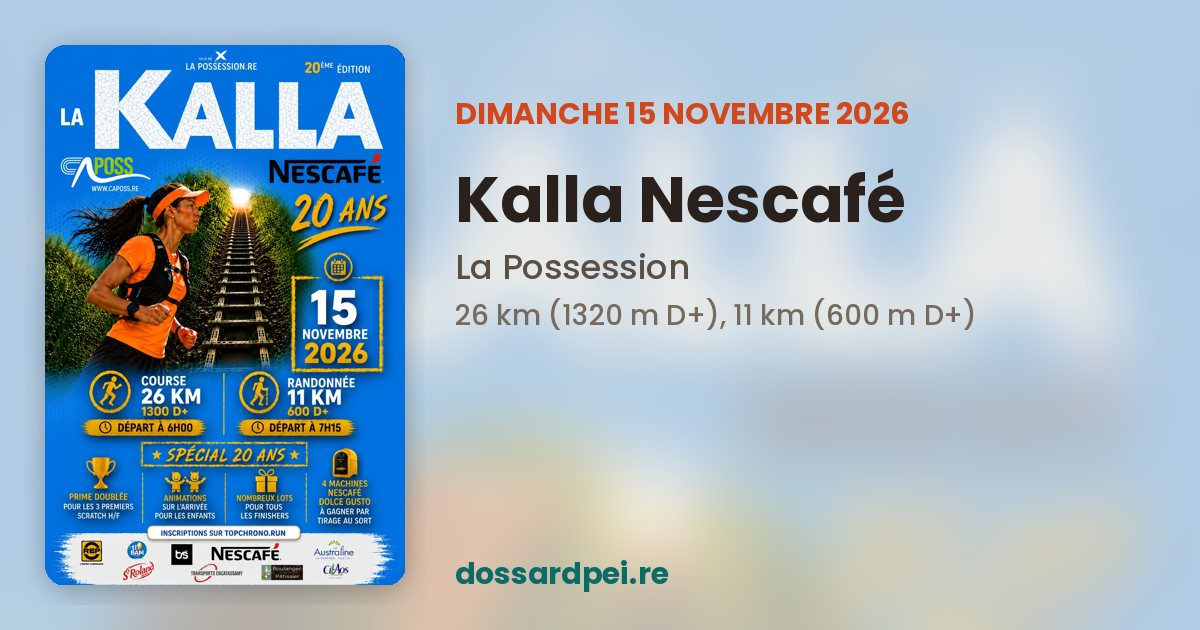
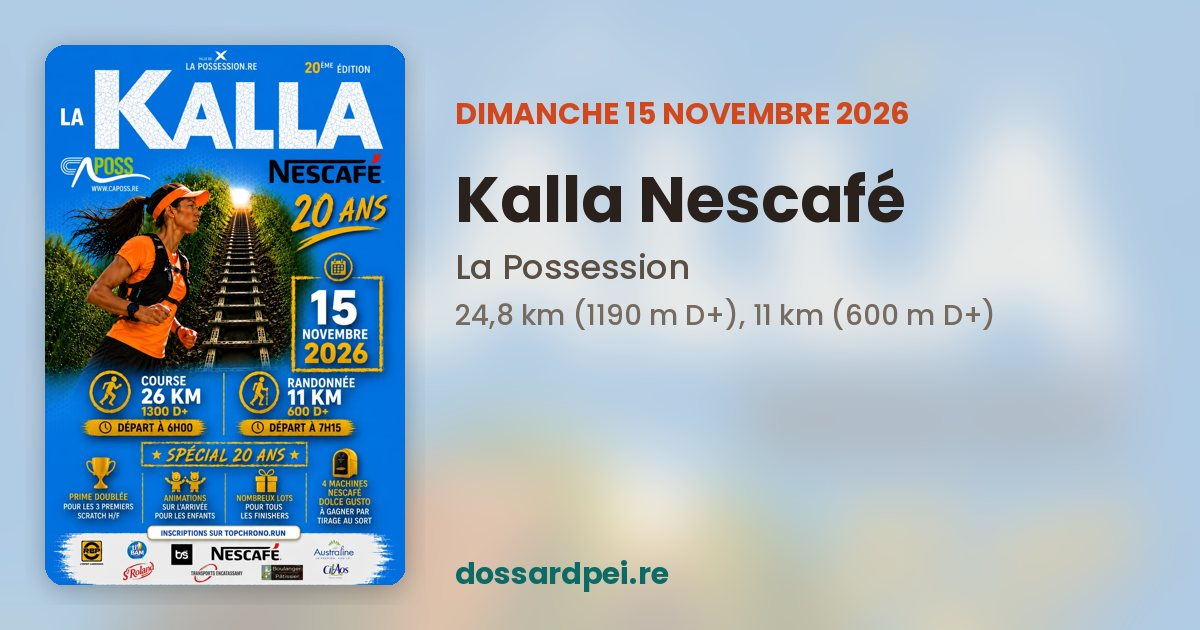
Synchro sources [pages]

Changed region(s): [[0.37, 0.4825, 0.8325, 0.5429]]

diff --git a/course/kalla-nescafe-2026-11/index.html b/course/kalla-nescafe-2026-11/index.html
@@ -2,15 +2,15 @@
 <html lang="fr"><head><meta charset="utf-8"><meta name="viewport" content="width=device-width,initial-scale=1,viewport-fit=cover">
 <link rel="icon" href="/favicon.ico" sizes="48x48"><link rel="icon" href="/favicon.svg" type="image/svg+xml"><link rel="apple-touch-icon" href="/apple-touch-icon.png">
 <title>Kalla Nescafé 2026 · 15 novembre · La Possession | Dossard Péi</title>
-<meta name="description" content="Kalla Nescafé : trail le dimanche 15 novembre 2026 à La Possession, La Réunion. 26 km (1320 m D+), 11 km (600 m D+). Horaires, tarifs, parcours et lien d&#x27;inscription.">
+<meta name="description" content="Kalla Nescafé : trail le dimanche 15 novembre 2026 à La Possession, La Réunion. 24,8 km (1190 m D+), 11 km (600 m D+). Horaires, tarifs, parcours et lien d&#x27;inscription.">
 <link rel="canonical" href="https://dossardpei.re/course/kalla-nescafe-2026-11/">
 <meta property="og:type" content="website"><meta property="og:site_name" content="Dossard Péi"><meta property="og:locale" content="fr_FR">
-<meta property="og:title" content="Kalla Nescafé · dimanche 15 novembre 2026"><meta property="og:description" content="Kalla Nescafé : trail le dimanche 15 novembre 2026 à La Possession, La Réunion. 26 km (1320 m D+), 11 km (600 m D+). Horaires, tarifs, parcours et lien d&#x27;inscription.">
+<meta property="og:title" content="Kalla Nescafé · dimanche 15 novembre 2026"><meta property="og:description" content="Kalla Nescafé : trail le dimanche 15 novembre 2026 à La Possession, La Réunion. 24,8 km (1190 m D+), 11 km (600 m D+). Horaires, tarifs, parcours et lien d&#x27;inscription.">
 <meta property="og:url" content="https://dossardpei.re/course/kalla-nescafe-2026-11/"><meta property="og:image" content="https://dossardpei.re/og/kalla-nescafe-2026-11.jpg"><meta property="og:image:width" content="1200"><meta property="og:image:height" content="630">
 <meta name="twitter:card" content="summary_large_image">
 <meta name="theme-color" content="#f5efe6" media="(prefers-color-scheme: light)"><meta name="theme-color" content="#14110e" media="(prefers-color-scheme: dark)">
 <link rel="preconnect" href="https://fonts.googleapis.com"><link rel="stylesheet" href="https://fonts.googleapis.com/css2?family=Instrument+Sans:wght@400;600;700&display=swap">
-<script type="application/ld+json">{"@context": "https://schema.org", "@type": "SportsEvent", "name": "Kalla Nescafé", "startDate": "2026-11-15", "endDate": "2026-11-15", "eventStatus": "https://schema.org/EventScheduled", "eventAttendanceMode": "https://schema.org/OfflineEventAttendanceMode", "sport": "Trail running", "url": "https://dossardpei.re/course/kalla-nescafe-2026-11/", "description": "Kalla Nescafé : trail le dimanche 15 novembre 2026 à La Possession, La Réunion. 26 km (1320 m D+), 11 km (600 m D+). Horaires, tarifs, parcours et lien d'inscription.", "location": {"@type": "Place", "name": "Place Festival (arrivée CAPOSS, Sainte-Thérèse)", "address": {"@type": "PostalAddress", "addressLocality": "La Possession", "addressRegion": "La Réunion", "addressCountry": "RE"}, "geo": {"@type": "GeoCoordinates", "latitude": -20.9258, "longitude": 55.3352}}, "image": ["https://dossardpei.re/og/kalla-nescafe-2026-11.jpg", "https://dossardpei.re/posters/kalla-nescafe-2026-11_lg.webp"], "organizer": {"@type": "Organization", "name": "CAPOSS", "url": "https://www.topchrono.run/evenements/la-kalla-nescafe-2026/"}, "performer": {"@type": "PerformingGroup", "name": "Participants · Kalla Nescafé"}}</script>
+<script type="application/ld+json">{"@context": "https://schema.org", "@type": "SportsEvent", "name": "Kalla Nescafé", "startDate": "2026-11-15", "endDate": "2026-11-15", "eventStatus": "https://schema.org/EventScheduled", "eventAttendanceMode": "https://schema.org/OfflineEventAttendanceMode", "sport": "Trail running", "url": "https://dossardpei.re/course/kalla-nescafe-2026-11/", "description": "Kalla Nescafé : trail le dimanche 15 novembre 2026 à La Possession, La Réunion. 24,8 km (1190 m D+), 11 km (600 m D+). Horaires, tarifs, parcours et lien d'inscription.", "location": {"@type": "Place", "name": "Place Festival (arrivée CAPOSS, Sainte-Thérèse)", "address": {"@type": "PostalAddress", "addressLocality": "La Possession", "addressRegion": "La Réunion", "addressCountry": "RE"}, "geo": {"@type": "GeoCoordinates", "latitude": -20.9258, "longitude": 55.3352}}, "image": ["https://dossardpei.re/og/kalla-nescafe-2026-11.jpg", "https://dossardpei.re/posters/kalla-nescafe-2026-11_lg.webp"], "organizer": {"@type": "Organization", "name": "CAPOSS", "url": "https://www.topchrono.run/evenements/la-kalla-nescafe-2026/"}, "performer": {"@type": "PerformingGroup", "name": "Participants · Kalla Nescafé"}}</script>
 <script data-goatcounter="https://dossardpei.goatcounter.com/count" async src="//gc.zgo.at/count.js"></script>
 <style>
 :root{--bg:#f5efe6;--surface:#fffcf7;--fg:#2a211c;--muted:#776a5f;--line:#e6dccf;--accent:#0d6b67;--accent-soft:#dcece8;--hot:#e5502e;color-scheme:light dark}
@@ -60,9 +60,9 @@ footer{max-width:1040px;margin:0 auto;padding:0 16px 40px;color:var(--muted);fon
 <p class="when">dimanche 15 novembre 2026</p>
 <h1>Kalla Nescafé</h1>
 <p class="where">La Possession · Place Festival (arrivée CAPOSS, Sainte-Thérèse) · organisé par CAPOSS</p>
-<ul class="tags"><li>Trail</li><li>26 km</li><li>11 km</li><li class=st>Complet</li></ul>
+<ul class="tags"><li>Trail</li><li>24,8 km</li><li>11 km</li><li class=st>Complet</li></ul>
 <div class="cta"><a class="btn map" href="/#c-kalla-nescafe-2026-11">Carte et parcours →</a></div>
-<div class="tbl"><table><thead><tr><th>Épreuve</th><th>Dist.</th><th>D+</th><th>Type</th><th>Départ</th><th>Tarif</th></tr></thead><tbody><tr><td>Trail 26 km</td><td class=n>26 km</td><td class=n>1320 m</td><td>Trail</td><td class=n>06h00</td><td>–</td></tr><tr><td>Randonnée 11 km<div class=note>Randonnée non chronométrée</div></td><td class=n>11 km</td><td class=n>600 m</td><td>Rando / marche</td><td class=n>07h30</td><td>–</td></tr></tbody></table></div>
+<div class="tbl"><table><thead><tr><th>Épreuve</th><th>Dist.</th><th>D+</th><th>Type</th><th>Départ</th><th>Tarif</th></tr></thead><tbody><tr><td>Trail 24,8 km<div class=note>Parcours modifié : accès au Piton de Sucre interdit par l&#x27;ONF (−1,2 km, −130 m D+)</div></td><td class=n>24,8 km</td><td class=n>1190 m</td><td>Trail</td><td class=n>06h00</td><td>–</td></tr><tr><td>Randonnée 11 km<div class=note>Randonnée non chronométrée</div></td><td class=n>11 km</td><td class=n>600 m</td><td>Rando / marche</td><td class=n>07h30</td><td>–</td></tr></tbody></table></div>
 <p class="src">Informations reprises des sources officielles, à vérifier auprès de l’organisateur avant de vous inscrire. · <a href="https://www.topchrono.run/evenements/la-kalla-nescafe-2026/" rel="noopener">Fiche source</a> · <a href="https://www.topchrono.run/wp-content/uploads/2026/08/affiche_kalla_nescafe_2026_topchrono_V3.png" rel="noopener">Affiche</a> · <a href="/#contact-kalla-nescafe-2026-11">Signaler une erreur</a></p>
 </div></article><div class="rels"><section class="rel"><h2>Le même week-end</h2><ul><li><a href="/course/cross-city/"><b>Cross City Sport</b><span>14 novembre · Saint-Denis</span></a></li><li><a href="/course/foulees-solidaires-entre-deux-2026-11/"><b>Les Foulées Solidaires de l&#x27;Entre-Deux</b><span>14 novembre · Entre-Deux · 10 km, 5 km</span></a></li><li><a href="/course/lesquilibres/"><b>LesQuiLibres sur les sentiers de l&#x27;enfance</b><span>14 novembre · La Plaine-des-Palmistes · 13 km (318 m D+), 3 km (29 m D+)</span></a></li><li><a href="/course/swimrun-reunion-2026-11/"><b>SwimRun Réunion</b><span>14 novembre · Saint-Leu · 42 km, 27,5 km, 14,5 km, 5 km</span></a></li><li><a href="/course/artichauts/"><b>Course des Artichauts</b><span>15 novembre · Saint-Leu · 12 km (426 m D+), 7 km (188 m D+)</span></a></li><li><a href="/course/diab/"><b>Diab&#x27;athlétique</b><span>15 novembre · Saint-Pierre · 15 km, 10 km</span></a></li></ul></section><section class="rel"><h2>Aussi à La Possession</h2><ul><li><a href="/course/tour-ile-pedestre-utoi-2026-10/"><b>Tour de l&#x27;Île pédestre</b><span>31 octobre · La Possession · 180 km (1378 m D+), 180 km (1378 m D+)</span></a></li><li><a href="/course/possession/"><b>Les Foulées de la Possession</b><span>29 novembre · La Possession · 10 km</span></a></li></ul></section></div></main>
 <footer>Dossard Péi · toutes les courses de La Réunion au même endroit · <a href="/">dossardpei.re</a> · <a href="/#contact">Nous contacter</a></footer>

diff --git a/course/swimrun-reunion-2026-11/index.html b/course/swimrun-reunion-2026-11/index.html
@@ -64,6 +64,6 @@ footer{max-width:1040px;margin:0 auto;padding:0 16px 40px;color:var(--muted);fon
 <div class="cta"><a class="btn main" href="https://swimrun-reunion.com" rel="noopener" data-goatcounter-click="inscription/swimrun-reunion-2026-11" data-goatcounter-title="Clic S’inscrire (page course)">S’inscrire</a><a class="btn map" href="/#c-swimrun-reunion-2026-11">Voir sur la carte →</a></div>
 <div class="tbl"><table><thead><tr><th>Épreuve</th><th>Dist.</th><th>D+</th><th>Type</th><th>Départ</th><th>Tarif</th></tr></thead><tbody><tr><td>La Marathon (duo)<div class=note>35 km de course à pied + 7 km de natation (10 sections trail, 9 de natation), en duo</div></td><td class=n>42 km</td><td class=n>–</td><td>Multisport</td><td class=n>dim. 15</td><td>–</td></tr><tr><td>La Longue (duo)<div class=note>23 km de course à pied + 4,5 km de natation, en duo</div></td><td class=n>27,5 km</td><td class=n>–</td><td>Multisport</td><td class=n>dim. 15</td><td>–</td></tr><tr><td>La Courte (duo)<div class=note>12,5 km de course à pied + 2 km de natation, en duo</div></td><td class=n>14,5 km</td><td class=n>–</td><td>Multisport</td><td class=n>dim. 15</td><td>–</td></tr><tr><td>La Nocturne<div class=note>3,9 km de course à pied + 1,1 km de natation</div></td><td class=n>5 km</td><td class=n>–</td><td>Multisport</td><td class=n>sam. 14</td><td>–</td></tr><tr><td>Courses enfants et familiale<div class=note>Family et Kid&#x27;s</div></td><td class=n>–</td><td class=n>–</td><td>Jeunes</td><td class=n>sam. 14</td><td>–</td></tr></tbody></table></div>
 <p class="src">Informations reprises des sources officielles, à vérifier auprès de l’organisateur avant de vous inscrire. · <a href="https://swimrun-reunion.com/" rel="noopener">Fiche source</a> · <a href="https://swimrun-reunion.com" rel="noopener">Site de la course</a> · <a href="/#contact-swimrun-reunion-2026-11">Signaler une erreur</a></p>
-</div></article><div class="rels"><section class="rel"><h2>Le même week-end</h2><ul><li><a href="/course/cross-city/"><b>Cross City Sport</b><span>14 novembre · Saint-Denis</span></a></li><li><a href="/course/foulees-solidaires-entre-deux-2026-11/"><b>Les Foulées Solidaires de l&#x27;Entre-Deux</b><span>14 novembre · Entre-Deux · 10 km, 5 km</span></a></li><li><a href="/course/lesquilibres/"><b>LesQuiLibres sur les sentiers de l&#x27;enfance</b><span>14 novembre · La Plaine-des-Palmistes · 13 km (318 m D+), 3 km (29 m D+)</span></a></li><li><a href="/course/artichauts/"><b>Course des Artichauts</b><span>15 novembre · Saint-Leu · 12 km (426 m D+), 7 km (188 m D+)</span></a></li><li><a href="/course/diab/"><b>Diab&#x27;athlétique</b><span>15 novembre · Saint-Pierre · 15 km, 10 km</span></a></li><li><a href="/course/kalla-nescafe-2026-11/"><b>Kalla Nescafé</b><span>15 novembre · La Possession · 26 km (1320 m D+), 11 km (600 m D+)</span></a></li></ul></section><section class="rel"><h2>Aussi à Saint-Leu</h2><ul><li><a href="/course/leu-eclairs/"><b>Leu Urban Trail des Éclairs</b><span>24 octobre · Saint-Leu · 12 km (500 m D+)</span></a></li><li><a href="/course/musees/"><b>Leu Trail des Musées</b><span>6 décembre · Saint-Leu · 26 km (560 m D+)</span></a></li></ul></section></div></main>
+</div></article><div class="rels"><section class="rel"><h2>Le même week-end</h2><ul><li><a href="/course/cross-city/"><b>Cross City Sport</b><span>14 novembre · Saint-Denis</span></a></li><li><a href="/course/foulees-solidaires-entre-deux-2026-11/"><b>Les Foulées Solidaires de l&#x27;Entre-Deux</b><span>14 novembre · Entre-Deux · 10 km, 5 km</span></a></li><li><a href="/course/lesquilibres/"><b>LesQuiLibres sur les sentiers de l&#x27;enfance</b><span>14 novembre · La Plaine-des-Palmistes · 13 km (318 m D+), 3 km (29 m D+)</span></a></li><li><a href="/course/artichauts/"><b>Course des Artichauts</b><span>15 novembre · Saint-Leu · 12 km (426 m D+), 7 km (188 m D+)</span></a></li><li><a href="/course/diab/"><b>Diab&#x27;athlétique</b><span>15 novembre · Saint-Pierre · 15 km, 10 km</span></a></li><li><a href="/course/kalla-nescafe-2026-11/"><b>Kalla Nescafé</b><span>15 novembre · La Possession · 24,8 km (1190 m D+), 11 km (600 m D+)</span></a></li></ul></section><section class="rel"><h2>Aussi à Saint-Leu</h2><ul><li><a href="/course/leu-eclairs/"><b>Leu Urban Trail des Éclairs</b><span>24 octobre · Saint-Leu · 12 km (500 m D+)</span></a></li><li><a href="/course/musees/"><b>Leu Trail des Musées</b><span>6 décembre · Saint-Leu · 26 km (560 m D+)</span></a></li></ul></section></div></main>
 <footer>Dossard Péi · toutes les courses de La Réunion au même endroit · <a href="/">dossardpei.re</a> · <a href="/#contact">Nous contacter</a></footer>
 </body></html>

diff --git a/course/foulees-solidaires-entre-deux-2026-11/index.html b/course/foulees-solidaires-entre-deux-2026-11/index.html
@@ -64,6 +64,6 @@ footer{max-width:1040px;margin:0 auto;padding:0 16px 40px;color:var(--muted);fon
 <div class="cta"><a class="btn main" href="https://foulee-solidaire-polio.netlify.app/" rel="noopener" data-goatcounter-click="inscription/foulees-solidaires-entre-deux-2026-11" data-goatcounter-title="Clic S’inscrire (page course)">S’inscrire</a><a class="btn map" href="/#c-foulees-solidaires-entre-deux-2026-11">Voir sur la carte →</a></div>
 <div class="tbl"><table><thead><tr><th>Épreuve</th><th>Dist.</th><th>D+</th><th>Type</th><th>Départ</th><th>Tarif</th></tr></thead><tbody><tr><td>Course 10 km chronométrée<div class=note>16 ans et plus, PPS obligatoire</div></td><td class=n>10 km</td><td class=n>–</td><td>Route</td><td class=n>–</td><td>20 €</td></tr><tr><td>Randonnée solidaire 5 km</td><td class=n>5 km</td><td class=n>–</td><td>Rando / marche</td><td class=n>–</td><td>14 €</td></tr></tbody></table></div>
 <p class="src">Informations reprises des sources officielles, à vérifier auprès de l’organisateur avant de vous inscrire. · <a href="https://werun.world/course/foulees-solidaires-de-lentre-deux/" rel="noopener">Fiche source</a> · <a href="https://www.helloasso.com/associations/dimitile-sports-actions/evenements/les-foulees-solidaires-de-l-entre-deux-tous-contre-la-polio" rel="noopener">Site de la course</a> · <a href="https://werun.world/wp-content/uploads/2026/10/Affiche-Foulees-Solidaires-de-lEntre-Deux-2026.jpg" rel="noopener">Affiche</a> · <a href="/#contact-foulees-solidaires-entre-deux-2026-11">Signaler une erreur</a></p>
-</div></article><div class="rels"><section class="rel"><h2>Le même week-end</h2><ul><li><a href="/course/cross-city/"><b>Cross City Sport</b><span>14 novembre · Saint-Denis</span></a></li><li><a href="/course/lesquilibres/"><b>LesQuiLibres sur les sentiers de l&#x27;enfance</b><span>14 novembre · La Plaine-des-Palmistes · 13 km (318 m D+), 3 km (29 m D+)</span></a></li><li><a href="/course/swimrun-reunion-2026-11/"><b>SwimRun Réunion</b><span>14 novembre · Saint-Leu · 42 km, 27,5 km, 14,5 km, 5 km</span></a></li><li><a href="/course/artichauts/"><b>Course des Artichauts</b><span>15 novembre · Saint-Leu · 12 km (426 m D+), 7 km (188 m D+)</span></a></li><li><a href="/course/diab/"><b>Diab&#x27;athlétique</b><span>15 novembre · Saint-Pierre · 15 km, 10 km</span></a></li><li><a href="/course/kalla-nescafe-2026-11/"><b>Kalla Nescafé</b><span>15 novembre · La Possession · 26 km (1320 m D+), 11 km (600 m D+)</span></a></li></ul></section><section class="rel"><h2>Aussi à Entre-Deux</h2><ul><li><a href="/course/dimitile/"><b>Trans Dimitile</b><span>6 décembre · Entre-Deux · 32 km (1800 m D+), 14 km (900 m D+)</span></a></li></ul></section></div></main>
+</div></article><div class="rels"><section class="rel"><h2>Le même week-end</h2><ul><li><a href="/course/cross-city/"><b>Cross City Sport</b><span>14 novembre · Saint-Denis</span></a></li><li><a href="/course/lesquilibres/"><b>LesQuiLibres sur les sentiers de l&#x27;enfance</b><span>14 novembre · La Plaine-des-Palmistes · 13 km (318 m D+), 3 km (29 m D+)</span></a></li><li><a href="/course/swimrun-reunion-2026-11/"><b>SwimRun Réunion</b><span>14 novembre · Saint-Leu · 42 km, 27,5 km, 14,5 km, 5 km</span></a></li><li><a href="/course/artichauts/"><b>Course des Artichauts</b><span>15 novembre · Saint-Leu · 12 km (426 m D+), 7 km (188 m D+)</span></a></li><li><a href="/course/diab/"><b>Diab&#x27;athlétique</b><span>15 novembre · Saint-Pierre · 15 km, 10 km</span></a></li><li><a href="/course/kalla-nescafe-2026-11/"><b>Kalla Nescafé</b><span>15 novembre · La Possession · 24,8 km (1190 m D+), 11 km (600 m D+)</span></a></li></ul></section><section class="rel"><h2>Aussi à Entre-Deux</h2><ul><li><a href="/course/dimitile/"><b>Trans Dimitile</b><span>6 décembre · Entre-Deux · 32 km (1800 m D+), 14 km (900 m D+)</span></a></li></ul></section></div></main>
 <footer>Dossard Péi · toutes les courses de La Réunion au même endroit · <a href="/">dossardpei.re</a> · <a href="/#contact">Nous contacter</a></footer>
 </body></html>

diff --git a/course/diab/index.html b/course/diab/index.html
@@ -64,6 +64,6 @@ footer{max-width:1040px;margin:0 auto;padding:0 16px 40px;color:var(--muted);fon
 <div class="cta"><a class="btn main" href="https://www.sportpro.re/courses/02120-diabathletique/" rel="noopener" data-goatcounter-click="inscription/diab" data-goatcounter-title="Clic S’inscrire (page course)">S’inscrire</a><a class="btn map" href="/#c-diab">Carte et parcours →</a></div>
 <div class="tbl"><table><thead><tr><th>Épreuve</th><th>Dist.</th><th>D+</th><th>Type</th><th>Départ</th><th>Tarif</th></tr></thead><tbody><tr><td>15 km</td><td class=n>15 km</td><td class=n>–</td><td>Route</td><td class=n>06h15</td><td>18 €</td></tr><tr><td>Marche 10 km</td><td class=n>10 km</td><td class=n>–</td><td>Rando / marche</td><td class=n>06h45</td><td>12 €</td></tr></tbody></table></div>
 <p class="src">Informations reprises des sources officielles, à vérifier auprès de l’organisateur avant de vous inscrire. · <a href="https://www.sportpro.re/courses/02120-diabathletique/" rel="noopener">Fiche source</a> · <a href="https://www.sportpro.re/res/.thumbs/images/Affiches/Diab_Athletique_Affiche_2026.438.png" rel="noopener">Affiche</a> · <a href="/#contact-diab">Signaler une erreur</a></p>
-</div></article><div class="rels"><section class="rel"><h2>Le même week-end</h2><ul><li><a href="/course/cross-city/"><b>Cross City Sport</b><span>14 novembre · Saint-Denis</span></a></li><li><a href="/course/foulees-solidaires-entre-deux-2026-11/"><b>Les Foulées Solidaires de l&#x27;Entre-Deux</b><span>14 novembre · Entre-Deux · 10 km, 5 km</span></a></li><li><a href="/course/lesquilibres/"><b>LesQuiLibres sur les sentiers de l&#x27;enfance</b><span>14 novembre · La Plaine-des-Palmistes · 13 km (318 m D+), 3 km (29 m D+)</span></a></li><li><a href="/course/swimrun-reunion-2026-11/"><b>SwimRun Réunion</b><span>14 novembre · Saint-Leu · 42 km, 27,5 km, 14,5 km, 5 km</span></a></li><li><a href="/course/artichauts/"><b>Course des Artichauts</b><span>15 novembre · Saint-Leu · 12 km (426 m D+), 7 km (188 m D+)</span></a></li><li><a href="/course/kalla-nescafe-2026-11/"><b>Kalla Nescafé</b><span>15 novembre · La Possession · 26 km (1320 m D+), 11 km (600 m D+)</span></a></li></ul></section><section class="rel"><h2>Aussi à Saint-Pierre</h2><ul><li><a href="/course/trail-urbain-saint-pierre-2026-11/"><b>Trail Urbain de Saint-Pierre</b><span>28 novembre · Saint-Pierre · 21 km (250 m D+), 7 km (50 m D+)</span></a></li></ul></section></div></main>
+</div></article><div class="rels"><section class="rel"><h2>Le même week-end</h2><ul><li><a href="/course/cross-city/"><b>Cross City Sport</b><span>14 novembre · Saint-Denis</span></a></li><li><a href="/course/foulees-solidaires-entre-deux-2026-11/"><b>Les Foulées Solidaires de l&#x27;Entre-Deux</b><span>14 novembre · Entre-Deux · 10 km, 5 km</span></a></li><li><a href="/course/lesquilibres/"><b>LesQuiLibres sur les sentiers de l&#x27;enfance</b><span>14 novembre · La Plaine-des-Palmistes · 13 km (318 m D+), 3 km (29 m D+)</span></a></li><li><a href="/course/swimrun-reunion-2026-11/"><b>SwimRun Réunion</b><span>14 novembre · Saint-Leu · 42 km, 27,5 km, 14,5 km, 5 km</span></a></li><li><a href="/course/artichauts/"><b>Course des Artichauts</b><span>15 novembre · Saint-Leu · 12 km (426 m D+), 7 km (188 m D+)</span></a></li><li><a href="/course/kalla-nescafe-2026-11/"><b>Kalla Nescafé</b><span>15 novembre · La Possession · 24,8 km (1190 m D+), 11 km (600 m D+)</span></a></li></ul></section><section class="rel"><h2>Aussi à Saint-Pierre</h2><ul><li><a href="/course/trail-urbain-saint-pierre-2026-11/"><b>Trail Urbain de Saint-Pierre</b><span>28 novembre · Saint-Pierre · 21 km (250 m D+), 7 km (50 m D+)</span></a></li></ul></section></div></main>
 <footer>Dossard Péi · toutes les courses de La Réunion au même endroit · <a href="/">dossardpei.re</a> · <a href="/#contact">Nous contacter</a></footer>
 </body></html>

diff --git a/course/cross-city/index.html b/course/cross-city/index.html
@@ -64,6 +64,6 @@ footer{max-width:1040px;margin:0 auto;padding:0 16px 40px;color:var(--muted);fon
 <div class="cta"><a class="btn main" href="https://www.sportpro.re/courses/02179-cross-city-sport/" rel="noopener" data-goatcounter-click="inscription/cross-city" data-goatcounter-title="Clic S’inscrire (page course)">S’inscrire</a><a class="btn map" href="/#c-cross-city">Voir sur la carte →</a></div>
 <div class="tbl"><table><thead><tr><th>Épreuve</th><th>Dist.</th><th>D+</th><th>Type</th><th>Départ</th><th>Tarif</th></tr></thead><tbody><tr><td>Cross court (Espoirs à Masters)</td><td class=n>–</td><td class=n>–</td><td>Cross</td><td class=n>13h00</td><td>3 €</td></tr><tr><td>Cross par catégorie (Poussins à Masters)</td><td class=n>–</td><td class=n>–</td><td>Cross</td><td class=n>13h00</td><td>3 €</td></tr></tbody></table></div>
 <p class="src">Informations reprises des sources officielles, à vérifier auprès de l’organisateur avant de vous inscrire. · <a href="https://www.sportpro.re/courses/02179-cross-city-sport/" rel="noopener">Fiche source</a> · <a href="https://www.sportpro.re/res/.thumbs/images/Affiches/Cross_City_Sport_affiche__1_.438.png" rel="noopener">Affiche</a> · <a href="/#contact-cross-city">Signaler une erreur</a></p>
-</div></article><div class="rels"><section class="rel"><h2>Le même week-end</h2><ul><li><a href="/course/foulees-solidaires-entre-deux-2026-11/"><b>Les Foulées Solidaires de l&#x27;Entre-Deux</b><span>14 novembre · Entre-Deux · 10 km, 5 km</span></a></li><li><a href="/course/lesquilibres/"><b>LesQuiLibres sur les sentiers de l&#x27;enfance</b><span>14 novembre · La Plaine-des-Palmistes · 13 km (318 m D+), 3 km (29 m D+)</span></a></li><li><a href="/course/swimrun-reunion-2026-11/"><b>SwimRun Réunion</b><span>14 novembre · Saint-Leu · 42 km, 27,5 km, 14,5 km, 5 km</span></a></li><li><a href="/course/artichauts/"><b>Course des Artichauts</b><span>15 novembre · Saint-Leu · 12 km (426 m D+), 7 km (188 m D+)</span></a></li><li><a href="/course/diab/"><b>Diab&#x27;athlétique</b><span>15 novembre · Saint-Pierre · 15 km, 10 km</span></a></li><li><a href="/course/kalla-nescafe-2026-11/"><b>Kalla Nescafé</b><span>15 novembre · La Possession · 26 km (1320 m D+), 11 km (600 m D+)</span></a></li></ul></section><section class="rel"><h2>Aussi à Saint-Denis</h2><ul><li><a href="/course/hybrid-challenge-2027-02/"><b>Hybrid Challenge</b><span>12 février · Saint-Denis</span></a></li></ul></section></div></main>
+</div></article><div class="rels"><section class="rel"><h2>Le même week-end</h2><ul><li><a href="/course/foulees-solidaires-entre-deux-2026-11/"><b>Les Foulées Solidaires de l&#x27;Entre-Deux</b><span>14 novembre · Entre-Deux · 10 km, 5 km</span></a></li><li><a href="/course/lesquilibres/"><b>LesQuiLibres sur les sentiers de l&#x27;enfance</b><span>14 novembre · La Plaine-des-Palmistes · 13 km (318 m D+), 3 km (29 m D+)</span></a></li><li><a href="/course/swimrun-reunion-2026-11/"><b>SwimRun Réunion</b><span>14 novembre · Saint-Leu · 42 km, 27,5 km, 14,5 km, 5 km</span></a></li><li><a href="/course/artichauts/"><b>Course des Artichauts</b><span>15 novembre · Saint-Leu · 12 km (426 m D+), 7 km (188 m D+)</span></a></li><li><a href="/course/diab/"><b>Diab&#x27;athlétique</b><span>15 novembre · Saint-Pierre · 15 km, 10 km</span></a></li><li><a href="/course/kalla-nescafe-2026-11/"><b>Kalla Nescafé</b><span>15 novembre · La Possession · 24,8 km (1190 m D+), 11 km (600 m D+)</span></a></li></ul></section><section class="rel"><h2>Aussi à Saint-Denis</h2><ul><li><a href="/course/hybrid-challenge-2027-02/"><b>Hybrid Challenge</b><span>12 février · Saint-Denis</span></a></li></ul></section></div></main>
 <footer>Dossard Péi · toutes les courses de La Réunion au même endroit · <a href="/">dossardpei.re</a> · <a href="/#contact">Nous contacter</a></footer>
 </body></html>

diff --git a/course/artichauts/index.html b/course/artichauts/index.html
@@ -64,6 +64,6 @@ footer{max-width:1040px;margin:0 auto;padding:0 16px 40px;color:var(--muted);fon
 <div class="cta"><a class="btn map" href="/#c-artichauts">Carte et parcours →</a></div>
 <div class="tbl"><table><thead><tr><th>Épreuve</th><th>Dist.</th><th>D+</th><th>Type</th><th>Départ</th><th>Tarif</th></tr></thead><tbody><tr><td>Course</td><td class=n>12 km</td><td class=n>426 m</td><td>Trail</td><td class=n>07h00</td><td>24 €</td></tr><tr><td>Rando</td><td class=n>7 km</td><td class=n>188 m</td><td>Rando / marche</td><td class=n>–</td><td>15 €</td></tr></tbody></table></div>
 <p class="src">Informations reprises des sources officielles, à vérifier auprès de l’organisateur avant de vous inscrire. · <a href="https://chronorun974.re/course-des-artichauts-2026/" rel="noopener">Fiche source</a> · <a href="https://chronorun974.re/wp-content/uploads/2026/09/Document-A4-Flyer-Association-Benevolat-Recrutement-Bleu-et-Jaune-1.png" rel="noopener">Affiche</a> · <a href="/#contact-artichauts">Signaler une erreur</a></p>
-</div></article><div class="rels"><section class="rel"><h2>Le même week-end</h2><ul><li><a href="/course/cross-city/"><b>Cross City Sport</b><span>14 novembre · Saint-Denis</span></a></li><li><a href="/course/foulees-solidaires-entre-deux-2026-11/"><b>Les Foulées Solidaires de l&#x27;Entre-Deux</b><span>14 novembre · Entre-Deux · 10 km, 5 km</span></a></li><li><a href="/course/lesquilibres/"><b>LesQuiLibres sur les sentiers de l&#x27;enfance</b><span>14 novembre · La Plaine-des-Palmistes · 13 km (318 m D+), 3 km (29 m D+)</span></a></li><li><a href="/course/swimrun-reunion-2026-11/"><b>SwimRun Réunion</b><span>14 novembre · Saint-Leu · 42 km, 27,5 km, 14,5 km, 5 km</span></a></li><li><a href="/course/diab/"><b>Diab&#x27;athlétique</b><span>15 novembre · Saint-Pierre · 15 km, 10 km</span></a></li><li><a href="/course/kalla-nescafe-2026-11/"><b>Kalla Nescafé</b><span>15 novembre · La Possession · 26 km (1320 m D+), 11 km (600 m D+)</span></a></li></ul></section><section class="rel"><h2>Aussi à Saint-Leu</h2><ul><li><a href="/course/leu-eclairs/"><b>Leu Urban Trail des Éclairs</b><span>24 octobre · Saint-Leu · 12 km (500 m D+)</span></a></li><li><a href="/course/musees/"><b>Leu Trail des Musées</b><span>6 décembre · Saint-Leu · 26 km (560 m D+)</span></a></li></ul></section></div></main>
+</div></article><div class="rels"><section class="rel"><h2>Le même week-end</h2><ul><li><a href="/course/cross-city/"><b>Cross City Sport</b><span>14 novembre · Saint-Denis</span></a></li><li><a href="/course/foulees-solidaires-entre-deux-2026-11/"><b>Les Foulées Solidaires de l&#x27;Entre-Deux</b><span>14 novembre · Entre-Deux · 10 km, 5 km</span></a></li><li><a href="/course/lesquilibres/"><b>LesQuiLibres sur les sentiers de l&#x27;enfance</b><span>14 novembre · La Plaine-des-Palmistes · 13 km (318 m D+), 3 km (29 m D+)</span></a></li><li><a href="/course/swimrun-reunion-2026-11/"><b>SwimRun Réunion</b><span>14 novembre · Saint-Leu · 42 km, 27,5 km, 14,5 km, 5 km</span></a></li><li><a href="/course/diab/"><b>Diab&#x27;athlétique</b><span>15 novembre · Saint-Pierre · 15 km, 10 km</span></a></li><li><a href="/course/kalla-nescafe-2026-11/"><b>Kalla Nescafé</b><span>15 novembre · La Possession · 24,8 km (1190 m D+), 11 km (600 m D+)</span></a></li></ul></section><section class="rel"><h2>Aussi à Saint-Leu</h2><ul><li><a href="/course/leu-eclairs/"><b>Leu Urban Trail des Éclairs</b><span>24 octobre · Saint-Leu · 12 km (500 m D+)</span></a></li><li><a href="/course/musees/"><b>Leu Trail des Musées</b><span>6 décembre · Saint-Leu · 26 km (560 m D+)</span></a></li></ul></section></div></main>
 <footer>Dossard Péi · toutes les courses de La Réunion au même endroit · <a href="/">dossardpei.re</a> · <a href="/#contact">Nous contacter</a></footer>
 </body></html>

diff --git a/course/possession/index.html b/course/possession/index.html
@@ -64,6 +64,6 @@ footer{max-width:1040px;margin:0 auto;padding:0 16px 40px;color:var(--muted);fon
 <div class="cta"><a class="btn main" href="https://www.sportpro.re/courses/02180-les-foulees-de-la-possession/" rel="noopener" data-goatcounter-click="inscription/possession" data-goatcounter-title="Clic S’inscrire (page course)">S’inscrire</a><a class="btn map" href="/#c-possession">Carte et parcours →</a></div>
 <div class="tbl"><table><thead><tr><th>Épreuve</th><th>Dist.</th><th>D+</th><th>Type</th><th>Départ</th><th>Tarif</th></tr></thead><tbody><tr><td>10 km</td><td class=n>10 km</td><td class=n>–</td><td>Route</td><td class=n>–</td><td>–</td></tr></tbody></table></div>
 <p class="src">Informations reprises des sources officielles, à vérifier auprès de l’organisateur avant de vous inscrire. · <a href="https://www.sportpro.re/courses/02180-les-foulees-de-la-possession/" rel="noopener">Fiche source</a> · <a href="https://werun.world/wp-content/uploads/2026/10/Affiche-Foulees-de-la-Possession-2026.jpeg" rel="noopener">Affiche</a> · <a href="/#contact-possession">Signaler une erreur</a></p>
-</div></article><div class="rels"><section class="rel"><h2>Le même week-end</h2><ul><li><a href="/course/trail-urbain-saint-pierre-2026-11/"><b>Trail Urbain de Saint-Pierre</b><span>28 novembre · Saint-Pierre · 21 km (250 m D+), 7 km (50 m D+)</span></a></li><li><a href="/course/course-inclusive-maladies-rares-2026-11/"><b>Course inclusive pour les maladies rares</b><span>29 novembre · Saint-Benoît · 3 km</span></a></li><li><a href="/course/niagara/"><b>Foulées Nature Niagara</b><span>29 novembre · Sainte-Suzanne · 25 km</span></a></li><li><a href="/course/villele/"><b>Trail de Villèle</b><span>29 novembre · Saint-Paul · 25 km (750 m D+), 10 km</span></a></li><li><a href="/course/riviere-mat/"><b>Trail des Berges de la Rivière du Mât Les Bas</b><span>29 novembre · Saint-André · 17 km (159 m D+), 12 km (82 m D+)</span></a></li></ul></section><section class="rel"><h2>Aussi à La Possession</h2><ul><li><a href="/course/tour-ile-pedestre-utoi-2026-10/"><b>Tour de l&#x27;Île pédestre</b><span>31 octobre · La Possession · 180 km (1378 m D+), 180 km (1378 m D+)</span></a></li><li><a href="/course/kalla-nescafe-2026-11/"><b>Kalla Nescafé</b><span>15 novembre · La Possession · 26 km (1320 m D+), 11 km (600 m D+)</span></a></li></ul></section></div></main>
+</div></article><div class="rels"><section class="rel"><h2>Le même week-end</h2><ul><li><a href="/course/trail-urbain-saint-pierre-2026-11/"><b>Trail Urbain de Saint-Pierre</b><span>28 novembre · Saint-Pierre · 21 km (250 m D+), 7 km (50 m D+)</span></a></li><li><a href="/course/course-inclusive-maladies-rares-2026-11/"><b>Course inclusive pour les maladies rares</b><span>29 novembre · Saint-Benoît · 3 km</span></a></li><li><a href="/course/niagara/"><b>Foulées Nature Niagara</b><span>29 novembre · Sainte-Suzanne · 25 km</span></a></li><li><a href="/course/villele/"><b>Trail de Villèle</b><span>29 novembre · Saint-Paul · 25 km (750 m D+), 10 km</span></a></li><li><a href="/course/riviere-mat/"><b>Trail des Berges de la Rivière du Mât Les Bas</b><span>29 novembre · Saint-André · 17 km (159 m D+), 12 km (82 m D+)</span></a></li></ul></section><section class="rel"><h2>Aussi à La Possession</h2><ul><li><a href="/course/tour-ile-pedestre-utoi-2026-10/"><b>Tour de l&#x27;Île pédestre</b><span>31 octobre · La Possession · 180 km (1378 m D+), 180 km (1378 m D+)</span></a></li><li><a href="/course/kalla-nescafe-2026-11/"><b>Kalla Nescafé</b><span>15 novembre · La Possession · 24,8 km (1190 m D+), 11 km (600 m D+)</span></a></li></ul></section></div></main>
 <footer>Dossard Péi · toutes les courses de La Réunion au même endroit · <a href="/">dossardpei.re</a> · <a href="/#contact">Nous contacter</a></footer>
 </body></html>

diff --git a/course/lesquilibres/index.html b/course/lesquilibres/index.html
@@ -64,6 +64,6 @@ footer{max-width:1040px;margin:0 auto;padding:0 16px 40px;color:var(--muted);fon
 <div class="cta"><a class="btn main" href="https://www.sportpro.re/courses/02168-lesquilibres-sur-les-sentiers-de-lenfance/" rel="noopener" data-goatcounter-click="inscription/lesquilibres" data-goatcounter-title="Clic S’inscrire (page course)">S’inscrire</a><a class="btn map" href="/#c-lesquilibres">Carte et parcours →</a></div>
 <div class="tbl"><table><thead><tr><th>Épreuve</th><th>Dist.</th><th>D+</th><th>Type</th><th>Départ</th><th>Tarif</th></tr></thead><tbody><tr><td>Le Trail LesQuiLibres</td><td class=n>13 km</td><td class=n>318 m</td><td>Trail XS</td><td class=n>07h30</td><td>18 €</td></tr><tr><td>Rando ludique</td><td class=n>3 km</td><td class=n>29 m</td><td>Rando / marche</td><td class=n>08h00</td><td>12 €</td></tr></tbody></table></div>
 <p class="src">Informations reprises des sources officielles, à vérifier auprès de l’organisateur avant de vous inscrire. · <a href="https://www.sportpro.re/courses/02168-lesquilibres-sur-les-sentiers-de-lenfance/" rel="noopener">Fiche source</a> · <a href="https://www.sportpro.re/res/.thumbs/images/Affiches/affiche_lesquilibre.438.png" rel="noopener">Affiche</a> · <a href="/#contact-lesquilibres">Signaler une erreur</a></p>
-</div></article><div class="rels"><section class="rel"><h2>Le même week-end</h2><ul><li><a href="/course/cross-city/"><b>Cross City Sport</b><span>14 novembre · Saint-Denis</span></a></li><li><a href="/course/foulees-solidaires-entre-deux-2026-11/"><b>Les Foulées Solidaires de l&#x27;Entre-Deux</b><span>14 novembre · Entre-Deux · 10 km, 5 km</span></a></li><li><a href="/course/swimrun-reunion-2026-11/"><b>SwimRun Réunion</b><span>14 novembre · Saint-Leu · 42 km, 27,5 km, 14,5 km, 5 km</span></a></li><li><a href="/course/artichauts/"><b>Course des Artichauts</b><span>15 novembre · Saint-Leu · 12 km (426 m D+), 7 km (188 m D+)</span></a></li><li><a href="/course/diab/"><b>Diab&#x27;athlétique</b><span>15 novembre · Saint-Pierre · 15 km, 10 km</span></a></li><li><a href="/course/kalla-nescafe-2026-11/"><b>Kalla Nescafé</b><span>15 novembre · La Possession · 26 km (1320 m D+), 11 km (600 m D+)</span></a></li></ul></section></div></main>
+</div></article><div class="rels"><section class="rel"><h2>Le même week-end</h2><ul><li><a href="/course/cross-city/"><b>Cross City Sport</b><span>14 novembre · Saint-Denis</span></a></li><li><a href="/course/foulees-solidaires-entre-deux-2026-11/"><b>Les Foulées Solidaires de l&#x27;Entre-Deux</b><span>14 novembre · Entre-Deux · 10 km, 5 km</span></a></li><li><a href="/course/swimrun-reunion-2026-11/"><b>SwimRun Réunion</b><span>14 novembre · Saint-Leu · 42 km, 27,5 km, 14,5 km, 5 km</span></a></li><li><a href="/course/artichauts/"><b>Course des Artichauts</b><span>15 novembre · Saint-Leu · 12 km (426 m D+), 7 km (188 m D+)</span></a></li><li><a href="/course/diab/"><b>Diab&#x27;athlétique</b><span>15 novembre · Saint-Pierre · 15 km, 10 km</span></a></li><li><a href="/course/kalla-nescafe-2026-11/"><b>Kalla Nescafé</b><span>15 novembre · La Possession · 24,8 km (1190 m D+), 11 km (600 m D+)</span></a></li></ul></section></div></main>
 <footer>Dossard Péi · toutes les courses de La Réunion au même endroit · <a href="/">dossardpei.re</a> · <a href="/#contact">Nous contacter</a></footer>
 </body></html>

diff --git a/course/tour-ile-pedestre-utoi-2026-10/index.html b/course/tour-ile-pedestre-utoi-2026-10/index.html
@@ -64,6 +64,6 @@ footer{max-width:1040px;margin:0 auto;padding:0 16px 40px;color:var(--muted);fon
 <div class="cta"><a class="btn main" href="https://utoi-inscriptions.com/evenements/tour-de-l-ile-pedestre-2026" rel="noopener" data-goatcounter-click="inscription/tour-ile-pedestre-utoi-2026-10" data-goatcounter-title="Clic S’inscrire (page course)">S’inscrire</a><a class="btn map" href="/#c-tour-ile-pedestre-utoi-2026-10">Carte et parcours →</a></div>
 <div class="tbl"><table><thead><tr><th>Épreuve</th><th>Dist.</th><th>D+</th><th>Type</th><th>Départ</th><th>Tarif</th></tr></thead><tbody><tr><td>Relais à 10</td><td class=n>180 km</td><td class=n>1378 m</td><td>Relais</td><td class=n>06h00</td><td>280 € / équipe</td></tr><tr><td>Relais à 5</td><td class=n>180 km</td><td class=n>1378 m</td><td>Relais</td><td class=n>06h00</td><td>140 € / équipe</td></tr></tbody></table></div>
 <p class="src">Informations reprises des sources officielles, à vérifier auprès de l’organisateur avant de vous inscrire. · <a href="https://utoi.re/product-category/saison-2026/tour-de-lile-pedestre-2026/" rel="noopener">Fiche source</a> · <a href="/#contact-tour-ile-pedestre-utoi-2026-10">Signaler une erreur</a></p>
-</div></article><div class="rels"><section class="rel"><h2>Le même week-end</h2><ul><li><a href="/course/avirons-urbain/"><b>Trail Urbain des Avirons</b><span>31 octobre · Les Avirons · 15 km (550 m D+), 7,5 km (250 m D+)</span></a></li><li><a href="/course/tri-salazes/"><b>Triathlon Tri Salazes</b><span>31 octobre · Saint-Benoît · 43 km, 43 km, 38,8 km, 38,8 km</span></a></li></ul></section><section class="rel"><h2>Aussi à La Possession</h2><ul><li><a href="/course/kalla-nescafe-2026-11/"><b>Kalla Nescafé</b><span>15 novembre · La Possession · 26 km (1320 m D+), 11 km (600 m D+)</span></a></li><li><a href="/course/possession/"><b>Les Foulées de la Possession</b><span>29 novembre · La Possession · 10 km</span></a></li></ul></section></div></main>
+</div></article><div class="rels"><section class="rel"><h2>Le même week-end</h2><ul><li><a href="/course/avirons-urbain/"><b>Trail Urbain des Avirons</b><span>31 octobre · Les Avirons · 15 km (550 m D+), 7,5 km (250 m D+)</span></a></li><li><a href="/course/tri-salazes/"><b>Triathlon Tri Salazes</b><span>31 octobre · Saint-Benoît · 43 km, 43 km, 38,8 km, 38,8 km</span></a></li></ul></section><section class="rel"><h2>Aussi à La Possession</h2><ul><li><a href="/course/kalla-nescafe-2026-11/"><b>Kalla Nescafé</b><span>15 novembre · La Possession · 24,8 km (1190 m D+), 11 km (600 m D+)</span></a></li><li><a href="/course/possession/"><b>Les Foulées de la Possession</b><span>29 novembre · La Possession · 10 km</span></a></li></ul></section></div></main>
 <footer>Dossard Péi · toutes les courses de La Réunion au même endroit · <a href="/">dossardpei.re</a> · <a href="/#contact">Nous contacter</a></footer>
 </body></html>
